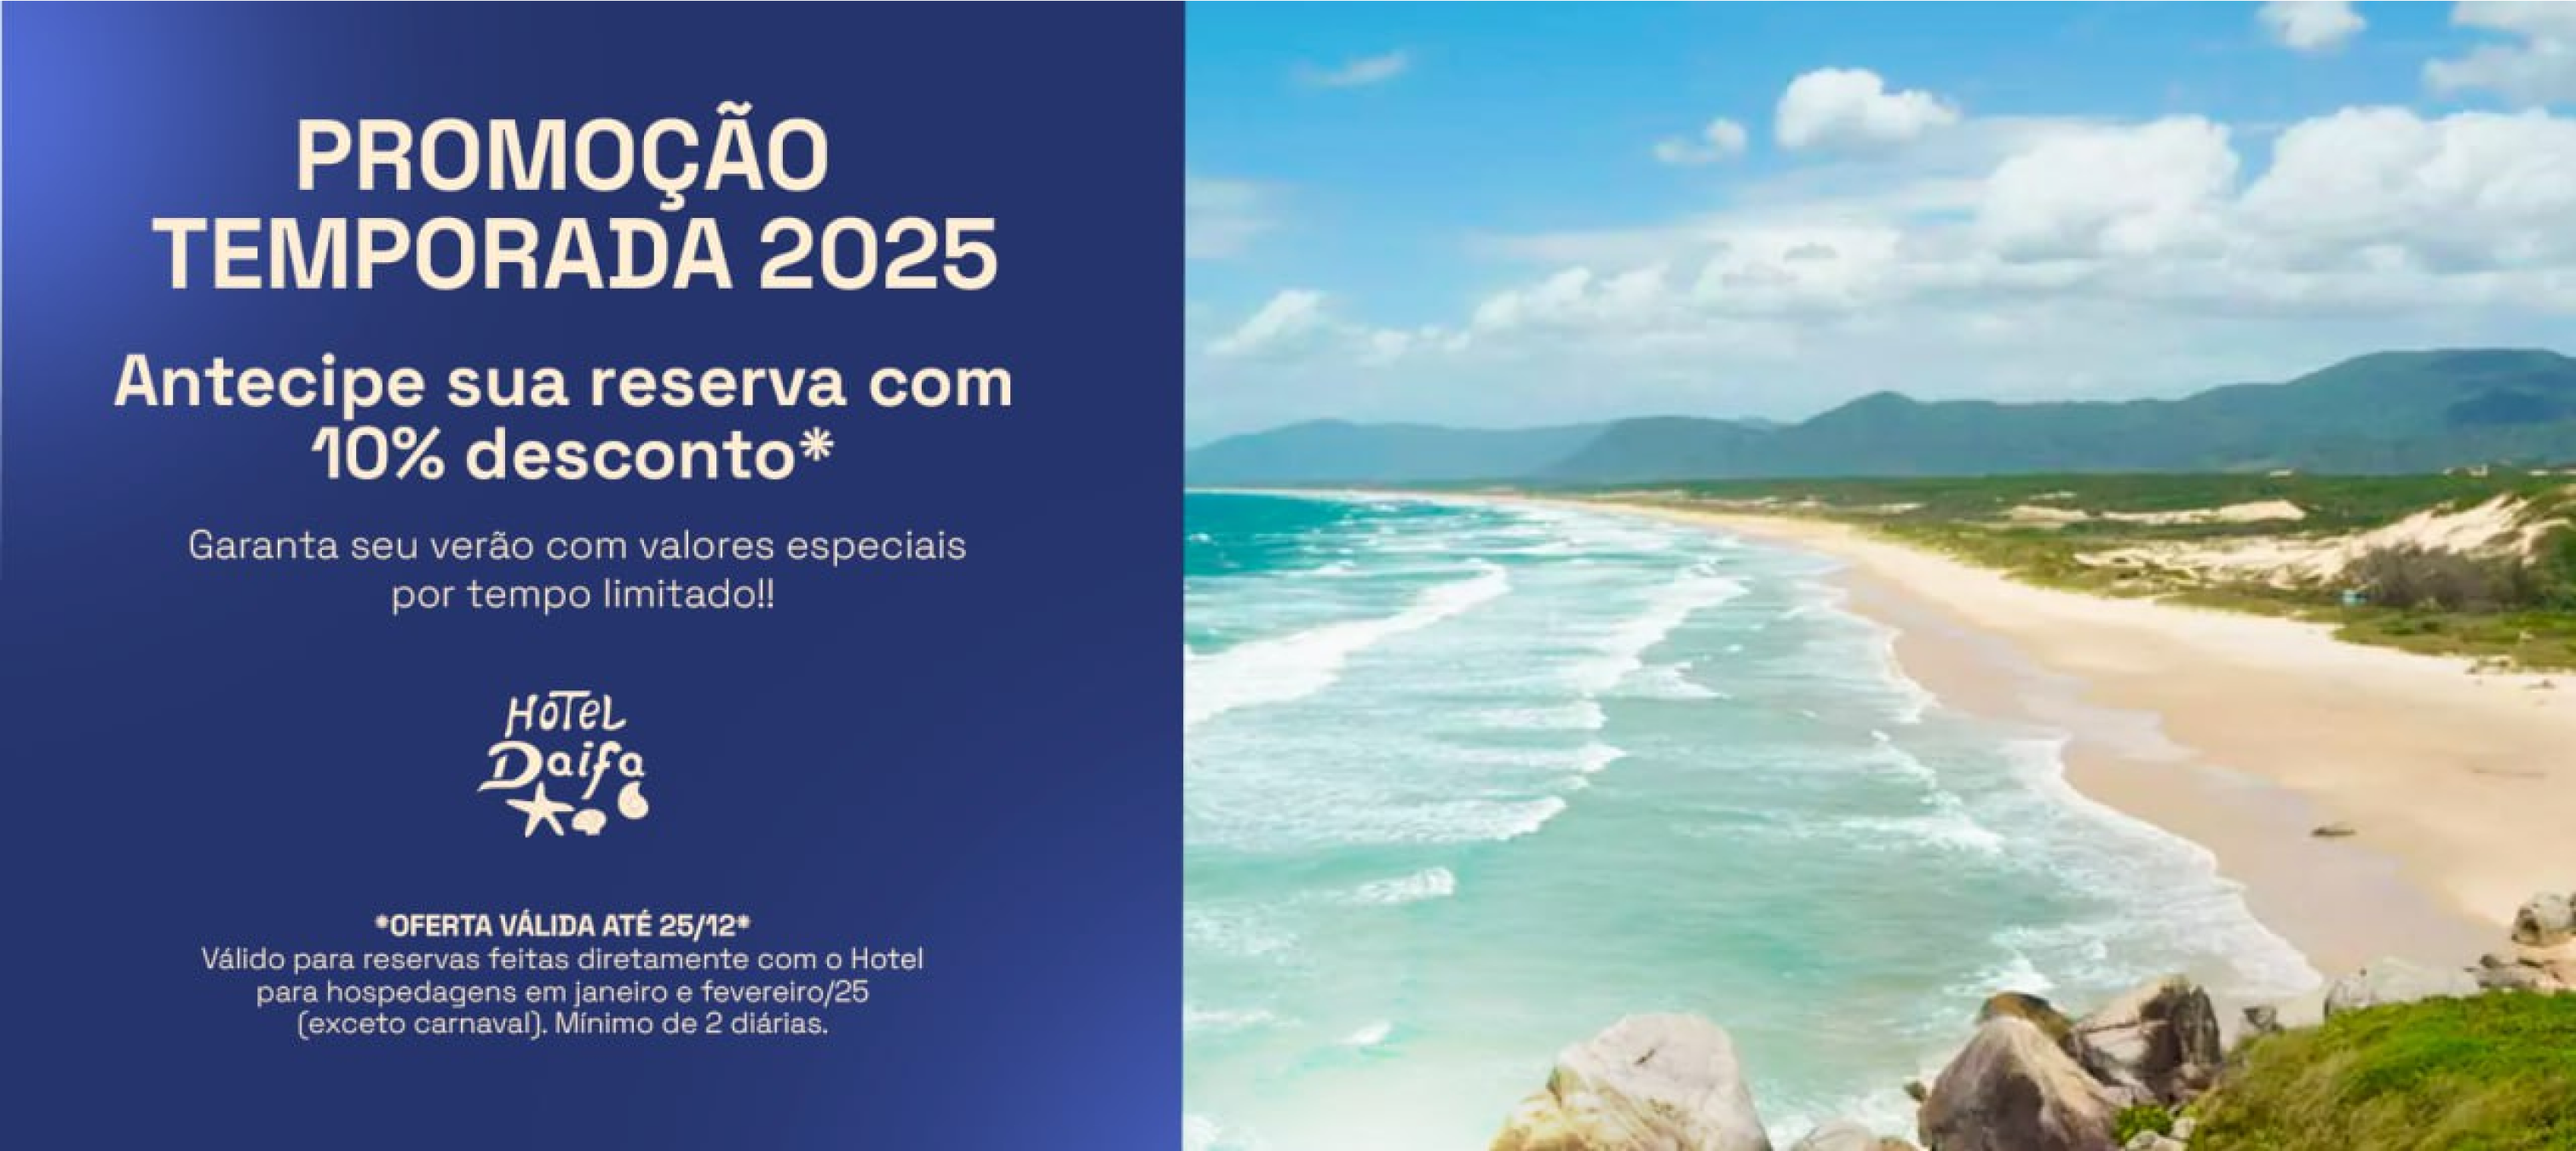
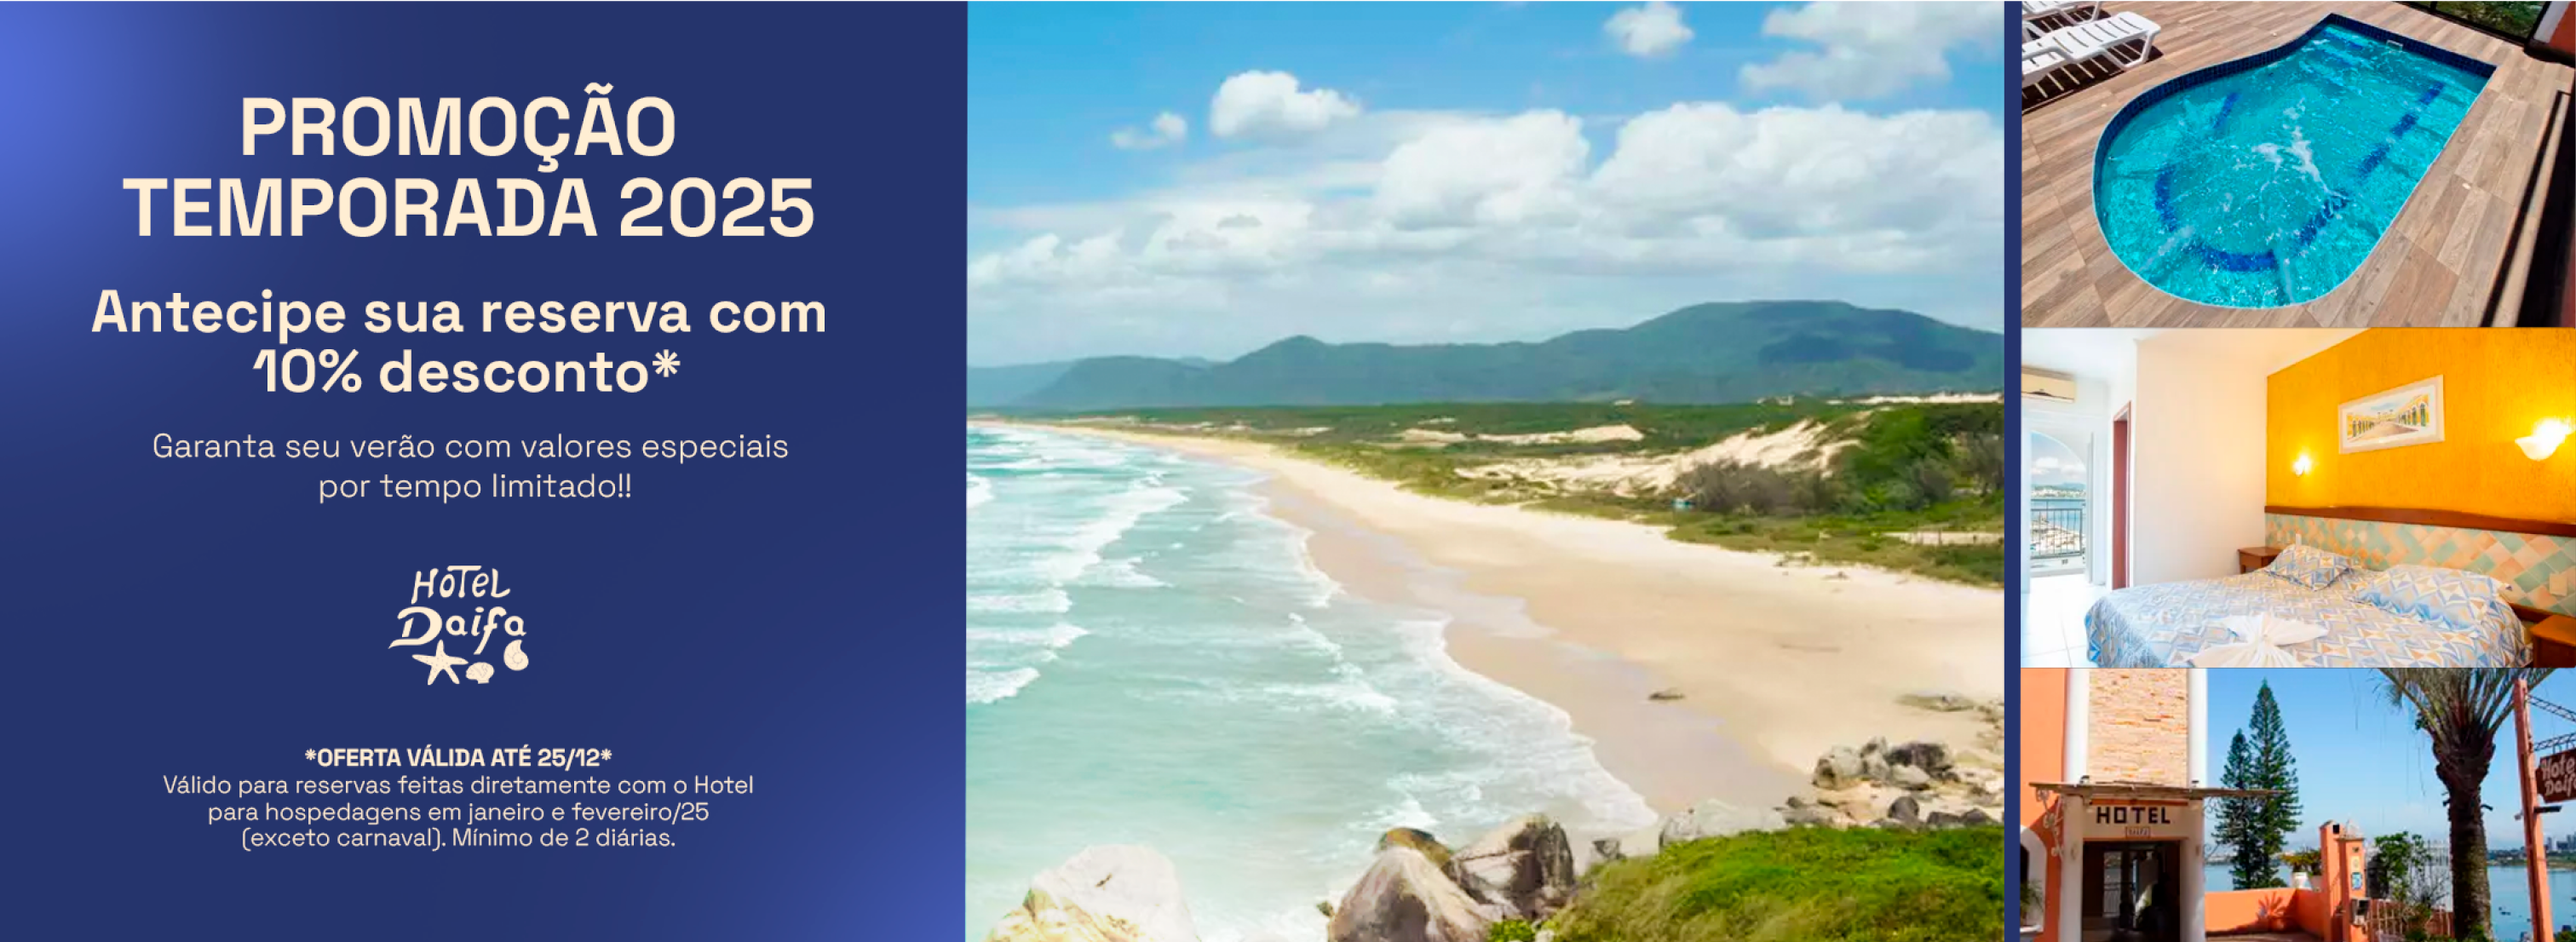
fix: change image of modal promotion

diff --git a/src/components/ModalPromotion.tsx b/src/components/ModalPromotion.tsx
@@ -12,32 +12,45 @@ export function ModalPromotion() {
   return (
     <>
       {isModalOpen && (
-        <div className="fixed w-full flex justify-center bottom-10 left-1/2 -translate-x-1/2 z-30">
-          <div className="relative">
+        <div className="fixed inset-0 z-30 flex justify-center items-end pb-16">
+          {/* Overlay */}
+          <div
+            className="absolute inset-0  bg-black bg-opacity-50"
+            onClick={handleModal} // Fecha o modal ao clicar no overlay
+          ></div>
+
+          {/* Modal */}
+          <div className="relative z-40 bg-white rounded-lg shadow-lg">
+            {/* Botão Fechar */}
             <button
               onClick={handleModal}
               className="font-mono bg-blue absolute text-gray-50 rounded-[4px] py-1 px-2 -top-6 right-0 text-base"
             >
               X
             </button>
+
+            {/* Link com Imagem */}
             <Link
               href={
                 "https://wa.me//5548988643952?text=Ol%C3%A1,%20vim%20pelo%20website%20e%20gostaria%20de%20mais%20informa%C3%A7%C3%B5es%20sobre%20reservas!"
               }
             >
+              {/* Imagem para Desktop */}
               <Image
                 src={"/img/image-modal.png"}
                 width={1108}
                 height={450}
                 alt="Imagem da promoção"
-                className="hidden lg:block"
+                className="hidden lg:block rounded-lg"
               />
+              {/* Imagem para Mobile */}
               <div className="w-[465px] max-w-80 lg:hidden">
                 <Image
                   src={"/img/image-modal-mobile.png"}
                   width={465}
                   height={581}
                   alt="Imagem da promoção"
+                  className="rounded-lg"
                 />
               </div>
             </Link>

diff --git a/src/app/page.tsx b/src/app/page.tsx
@@ -22,8 +22,8 @@ export default function Home() {
       <Header logo="white" color="secondary" btnColor="outlineWhite" />
 
       <motion.div
-        initial={{ opacity: 0, x: -50 }}
-        whileInView={{ opacity: 1, x: 0 }}
+        initial={{ opacity: 0 }}
+        whileInView={{ opacity: 1 }}
         transition={{ duration: 1, delay: 1 }}
         viewport={{ once: true }}
       >
